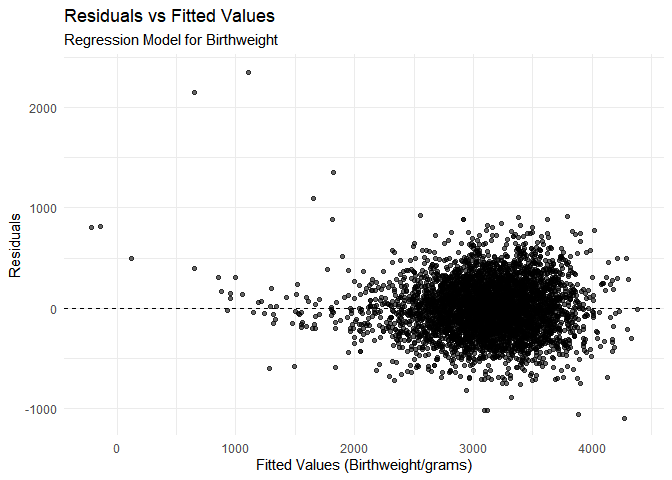
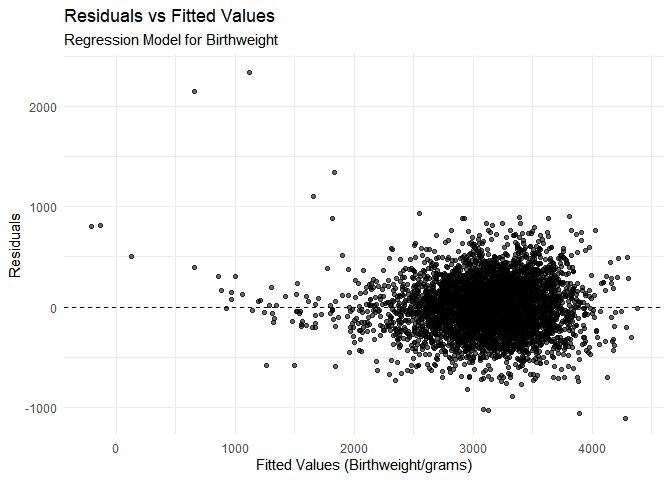
Small changes

diff --git a/p8105_hw6_yj2802.md b/p8105_hw6_yj2802.md
@@ -176,19 +176,8 @@ ci_log_beta_product
 
 ``` r
 url = "https://raw.githubusercontent.com/washingtonpost/data-homicides/master/homicide-data.csv"
-homicides = read_csv(url)
-```
+homicides = read_csv(url, show_col_types = FALSE)
 
-    ## Rows: 52179 Columns: 12
-    ## ── Column specification ────────────────────────────────────────────────────────
-    ## Delimiter: ","
-    ## chr (9): uid, victim_last, victim_first, victim_race, victim_age, victim_sex...
-    ## dbl (3): reported_date, lat, lon
-    ## 
-    ## ℹ Use `spec()` to retrieve the full column specification for this data.
-    ## ℹ Specify the column types or set `show_col_types = FALSE` to quiet this message.
-
-``` r
 problem2 = 
   homicides |> 
   mutate(
@@ -197,7 +186,8 @@ problem2 =
     victim_age = as.numeric(victim_age),
     resolution = case_when(
       disposition %in% c("Closed without arrest", "Open/No arrest") ~ 0,
-      disposition == "Closed by arrest" ~ 1
+      disposition == "Closed by arrest" ~ 1,
+      TRUE ~ NA_real_ 
     )
   ) |> 
   filter(
@@ -300,11 +290,13 @@ Richmond, suggest minimal differences between genders.
 
 ``` r
 birthweight = 
-  read_csv("birthweight.csv", na = c("", "NA", "Unknown")) |> 
+  read_csv("birthweight.csv", na = c("", "NA", "Unknown"), show_col_types = FALSE) |> 
   mutate(
     babysex = factor(babysex, levels = c(1, 2), labels = c("Male", "Female")),
-    frace = factor(frace, levels = c(1, 2, 3, 4, 8), labels = c("White", "Black", "Asian", "Puerto Rican", "Other")),
-    mrace = factor(mrace, levels = c(1, 2, 3, 4, 8), labels = c("White", "Black", "Asian", "Puerto Rican", "Other")),
+    frace = factor(frace, levels = c(1, 2, 3, 4, 8), 
+                   labels = c("White", "Black", "Asian", "Puerto Rican", "Other")),
+    mrace = factor(mrace, levels = c(1, 2, 3, 4, 8), 
+                   labels = c("White", "Black", "Asian", "Puerto Rican", "Other")),
     malform = factor(malform, levels = c(0, 1), labels = c("Absent", "Present")),
     parity = as.numeric(parity),
     smoken = replace_na(smoken, 0),
@@ -312,14 +304,6 @@ birthweight =
   ) |> 
   drop_na()
 ```
-
-    ## Rows: 4342 Columns: 20
-    ## ── Column specification ────────────────────────────────────────────────────────
-    ## Delimiter: ","
-    ## dbl (20): babysex, bhead, blength, bwt, delwt, fincome, frace, gaweeks, malf...
-    ## 
-    ## ℹ Use `spec()` to retrieve the full column specification for this data.
-    ## ℹ Specify the column types or set `show_col_types = FALSE` to quiet this message.
 
 #### Model building
 
@@ -334,7 +318,7 @@ model_full =
 # Remove those are not significant at 0.05 significance level (one by one) to get the final model:
 model_final = 
   lm(
-    bwt ~ babysex + bhead + blength + delwt + fincome + gaweeks + mheight + mrace + parity + ppwt + smoken,
+    bwt ~ babysex + bhead + blength + delwt + gaweeks + mheight + mrace + parity + ppwt + smoken,
     data = birthweight
   )
 summary(model_final)
@@ -342,35 +326,34 @@ summary(model_final)
 
     ## 
     ## Call:
-    ## lm(formula = bwt ~ babysex + bhead + blength + delwt + fincome + 
-    ##     gaweeks + mheight + mrace + parity + ppwt + smoken, data = birthweight)
+    ## lm(formula = bwt ~ babysex + bhead + blength + delwt + gaweeks + 
+    ##     mheight + mrace + parity + ppwt + smoken, data = birthweight)
     ## 
     ## Residuals:
     ##      Min       1Q   Median       3Q      Max 
-    ## -1097.18  -185.52    -3.39   174.14  2353.44 
+    ## -1106.16  -183.65    -2.51   174.67  2338.68 
     ## 
     ## Coefficients:
     ##                     Estimate Std. Error t value Pr(>|t|)    
-    ## (Intercept)       -6098.8219   137.5463 -44.340  < 2e-16 ***
-    ## babysexFemale        28.5580     8.4549   3.378 0.000737 ***
-    ## bhead               130.7770     3.4466  37.944  < 2e-16 ***
-    ## blength              74.9471     2.0190  37.120  < 2e-16 ***
-    ## delwt                 4.1067     0.3921  10.475  < 2e-16 ***
-    ## fincome               0.3180     0.1747   1.820 0.068844 .  
-    ## gaweeks              11.5925     1.4621   7.929 2.79e-15 ***
-    ## mheight               6.5940     1.7849   3.694 0.000223 ***
-    ## mraceBlack         -138.7925     9.9071 -14.009  < 2e-16 ***
-    ## mraceAsian          -74.8868    42.3146  -1.770 0.076837 .  
-    ## mracePuerto Rican  -100.6781    19.3247  -5.210 1.98e-07 ***
-    ## parity               96.3047    40.3362   2.388 0.017004 *  
-    ## ppwt                 -2.6756     0.4274  -6.261 4.20e-10 ***
-    ## smoken               -4.8434     0.5856  -8.271  < 2e-16 ***
+    ## (Intercept)       -6101.8188   137.5732 -44.353  < 2e-16 ***
+    ## babysexFemale        28.3735     8.4565   3.355 0.000800 ***
+    ## bhead               131.0228     3.4448  38.035  < 2e-16 ***
+    ## blength              74.7933     2.0178  37.066  < 2e-16 ***
+    ## delwt                 4.0840     0.3920  10.419  < 2e-16 ***
+    ## gaweeks              11.6785     1.4617   7.990 1.72e-15 ***
+    ## mheight               6.8569     1.7795   3.853 0.000118 ***
+    ## mraceBlack         -145.3753     9.2256 -15.758  < 2e-16 ***
+    ## mraceAsian          -77.9781    42.2918  -1.844 0.065279 .  
+    ## mracePuerto Rican  -105.9871    19.1083  -5.547 3.09e-08 ***
+    ## parity               94.8103    40.3386   2.350 0.018800 *  
+    ## ppwt                 -2.6507     0.4273  -6.204 6.02e-10 ***
+    ## smoken               -4.8738     0.5855  -8.324  < 2e-16 ***
     ## ---
     ## Signif. codes:  0 '***' 0.001 '**' 0.01 '*' 0.05 '.' 0.1 ' ' 1
     ## 
-    ## Residual standard error: 272.3 on 4328 degrees of freedom
-    ## Multiple R-squared:  0.7181, Adjusted R-squared:  0.7173 
-    ## F-statistic: 848.1 on 13 and 4328 DF,  p-value: < 2.2e-16
+    ## Residual standard error: 272.4 on 4329 degrees of freedom
+    ## Multiple R-squared:  0.7179, Adjusted R-squared:  0.7171 
+    ## F-statistic:   918 on 12 and 4329 DF,  p-value: < 2.2e-16
 
 The modeling process began by exploring the relationships between
 birthweight and other variables through summary statistics to identify
@@ -379,10 +362,11 @@ including all available variables hypothesized to influence birthweight.
 Using a data-driven approach, I iteratively removed variables with the
 highest p-values (greater than 0.05) one at a time to refine the model.
 The final model retained only significant predictors, ensuring that all
-variables had p-values below 0.05. This resulted in a parsimonious model
-with a Residual Standard Error of 272.3, an Adjusted R-squared of
-0.7173, and a highly significant F-statistic (p \< 0.0001), indicating
-strong explanatory power and a good fit for the data.
+variables had p-values below 0.05 (except one dummy variable). This
+resulted in a parsimonious model with a Residual Standard Error of
+272.4, an Adjusted R-squared of 0.7171, and a highly significant
+F-statistic (p \< 0.0001), indicating strong explanatory power and a
+good fit for the data.
 
 #### Plot (Residuals vs Fitted Values):
 
@@ -453,12 +437,12 @@ mse_summary |>
 |         73925.9 |   110957.1 |    82638.6 |
 
 My final model outperforms the other two models in terms of predictive
-accuracy, as indicated by its lowest cross-validated MSE of 73,925.9.
-The second model, which uses only birth length and gestational age as
-predictors, has the highest MSE of 110,957.1, reflecting its simplicity
+accuracy, as indicated by its lowest cross-validated MSE of 73925.9. The
+second model, which uses only birth length and gestational age as
+predictors, has the highest MSE of 110957.1, reflecting its simplicity
 and limited explanatory power. The third model, which includes head
 circumference, birth length, sex, and all interactions, performs better
-than the second model with an MSE of 82,638.6, but its added complexity
+than the second model with an MSE of 82638.6, but its added complexity
 does not surpass the performance of my final model. This demonstrates
 that the final model strikes a good balance between complexity and
 predictive accuracy.
